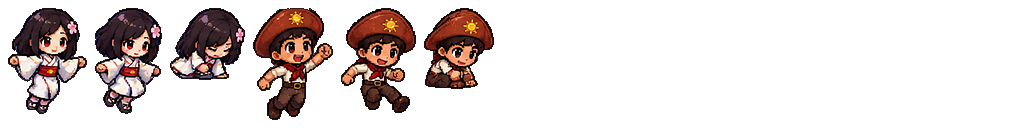
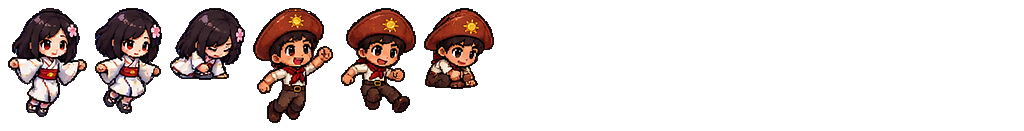
fix: reconstruir topo do chapéu/cabeça tampado pelas etiquetas na sheet
Na sheet original, as etiquetas (JUMP, WALK...) foram desenhadas por cima
do topo de alguns quadros, que ficavam com o chapéu (José) ou a cabeça
(Sakura) reto. O script agora detecta onde a etiqueta tampou o personagem
e refaz o topo seguindo a curva das laterais, com a cor do próprio desenho
e contorno escuro. Afetava o pulo e o 2º quadro de caminhada dos dois.

diff --git a/js/sprites.js b/js/sprites.js
@@ -12,10 +12,10 @@ const PALETTE = {
 // Atlas gerado por tools/build_char_atlas.py a partir de assets/src/char-sheet-original.png:
 // recorte limpo, alfa binario e quadros ja no tamanho final (1 px do atlas = 1 px do canvas 1536x864).
 const charSheetImg = new Image();
-charSheetImg.src = 'assets/char-sheet.png?v=27';
+charSheetImg.src = 'assets/char-sheet.png?v=28';
 // Conjunto separado do pulo: subida (jump), queda (fall) e aterrissagem (land).
 const charJumpImg = new Image();
-charJumpImg.src = 'assets/char-jump.png?v=27';
+charJumpImg.src = 'assets/char-jump.png?v=28';
 
 const CHAR_ANIMS = {
   // José
@@ -23,16 +23,16 @@ const CHAR_ANIMS = {
     idle: [{ x: 448, y: 8, w: 70, h: 118 }],
     walk: [{ x: 526, y: 8, w: 68, h: 118, dur: 1.25, bob: 0, step: true }, { x: 602, y: 8, w: 65, h: 119, dur: 0.80, bob: -1, step: false }, { x: 675, y: 8, w: 65, h: 117, dur: 1.25, bob: 0, step: true }, { x: 602, y: 8, w: 65, h: 119, dur: 0.80, bob: -1, step: false }],
     hurt: [{ x: 748, y: 8, w: 80, h: 122 }],
-    jump: [{ x: 253, y: 8, w: 80, h: 112, img: 'jump' }],
+    jump: [{ x: 253, y: 8, w: 80, h: 115, img: 'jump' }],
     fall: [{ x: 341, y: 8, w: 75, h: 105, img: 'jump' }],
     land: [{ x: 424, y: 8, w: 70, h: 81, img: 'jump' }],
   },
   // Sakura
   female: {
     idle: [{ x: 8, y: 8, w: 61, h: 109 }, { x: 77, y: 8, w: 61, h: 110 }],
-    walk: [{ x: 146, y: 8, w: 63, h: 110, dur: 1.25, bob: 0, step: true }, { x: 217, y: 8, w: 64, h: 110, dur: 0.80, bob: -1, step: false }, { x: 289, y: 8, w: 65, h: 109, dur: 1.25, bob: 0, step: true }, { x: 217, y: 8, w: 64, h: 110, dur: 0.80, bob: -1, step: false }],
+    walk: [{ x: 146, y: 8, w: 63, h: 110, dur: 1.25, bob: 0, step: true }, { x: 217, y: 8, w: 64, h: 111, dur: 0.80, bob: -1, step: false }, { x: 289, y: 8, w: 65, h: 109, dur: 1.25, bob: 0, step: true }, { x: 217, y: 8, w: 64, h: 111, dur: 0.80, bob: -1, step: false }],
     hurt: [{ x: 362, y: 8, w: 78, h: 117 }],
-    jump: [{ x: 8, y: 8, w: 79, h: 106, img: 'jump' }],
+    jump: [{ x: 8, y: 8, w: 79, h: 109, img: 'jump' }],
     fall: [{ x: 95, y: 8, w: 67, h: 106, img: 'jump' }],
     land: [{ x: 170, y: 8, w: 75, h: 72, img: 'jump' }],
   },

diff --git a/tools/build_char_atlas.py b/tools/build_char_atlas.py
@@ -145,7 +145,53 @@ def geodesic_assign(mask, seeds):
     return lab
 
 
-def extract_row(src, y0, y1, runs):
+def repair_top(cell, m, pan):
+    """Reconstroi o topo do personagem onde a etiqueta foi desenhada POR CIMA dele na sheet.
+
+    Nesses pontos o chapeu termina numa linha reta logo abaixo da etiqueta. O topo e
+    refeito seguindo a curva das laterais (parabola ajustada ao contorno vizinho),
+    pintado com a cor do proprio chapeu e fechado com o contorno escuro.
+    Altera cell e m no lugar; devolve quantas colunas foram reconstruidas."""
+    h, w = m.shape
+    cols = np.where(m.any(0))[0]
+    if not len(cols):
+        return 0
+    top = np.full(w, -1)
+    top[cols] = m[:, cols].argmax(0)
+    occl = [x for x in cols if top[x] > 0 and pan[max(0, top[x] - 4):top[x], x].any()]
+    if len(occl) < 5:
+        return 0
+    occl = np.array(occl)
+    flat = int(np.median(top[occl]))
+    lo, hi = occl.min(), occl.max()
+    side = [x for x in cols if (lo - 30 <= x < lo or hi < x <= hi + 30) and flat < top[x] < flat + 30]
+    if len(side) < 6:
+        return 0
+    a, b, c = np.polyfit(side, top[side], 2)
+    if a <= 0:
+        return 0
+    dark = cell[m & (cell[..., :3].max(-1) < 70)]
+    outline = np.median(dark[:, :3], 0).astype(np.uint8) if len(dark) else np.array([30, 20, 18], np.uint8)
+    new = np.zeros_like(m)
+    for x in range(lo, hi + 1):
+        ynew = int(round(a * x * x + b * x + c))
+        ynew = max(ynew, flat - 16, 0)
+        for y in range(ynew, flat + 1):
+            if m[y, x]:
+                continue
+            d = flat - y
+            sy = min(h - 1, flat + 3 + d % 4)
+            if m[sy, x]:
+                cell[y, x, :3] = cell[sy, x, :3]
+                cell[y, x, 3] = 255
+                new[y, x] = True
+    m |= new
+    ring = new & ~ndi.binary_erosion(m, iterations=2)
+    cell[ring, :3] = outline
+    return int(hi - lo + 1)
+
+
+def extract_row(src, y0, y1, runs, panel=None):
     """runs: lista de (nome, x0, x1, k) que dividem a mesma faixa horizontal."""
     band = src[y0:y1]
     mask = band[..., 3] >= 128
@@ -169,6 +215,10 @@ def extract_row(src, y0, y1, runs):
         cell = band.copy()
         cell[~own] = 0
         m = clean_mask(cell)
+        if panel is not None:
+            repaired = repair_top(cell, m, panel[y0:y1])
+            if repaired:
+                print(f'// topo reconstruido: {name}[{j}] ({repaired} colunas tampadas pela etiqueta)', file=sys.stderr)
         ys, xs = np.where(m)
         cy0, cy1, cx0, cx1 = ys.min(), ys.max() + 1, xs.min(), xs.max() + 1
         fr = cell[cy0:cy1, cx0:cx1].copy()
@@ -215,7 +265,7 @@ def remove_labels(src):
         panel |= ndi.binary_dilation(panel) & cold
     src = src.copy()
     src[panel] = 0
-    return src
+    return src, panel
 
 
 def pack(arrs):
@@ -239,7 +289,7 @@ def pack(arrs):
 
 
 def main():
-    src = remove_labels(np.array(Image.open(SRC).convert('RGBA')))
+    src, panel = remove_labels(np.array(Image.open(SRC).convert('RGBA')))
     packed = {k: [] for k in OUTS}
     anims = {}
     for ch, rows in ROWS.items():
@@ -248,7 +298,7 @@ def main():
             bands.setdefault((y0, y1), []).append((name, x0, x1, k))
         raw, touch = {}, {}
         for (y0, y1), runs in bands.items():
-            fr, t = extract_row(src, y0, y1, runs)
+            fr, t = extract_row(src, y0, y1, runs, panel)
             raw.update(fr)
             touch.update(t)
         bad = [f'{ch}.{run}[{i}]' for _, run, ids in USE[ch].values() for i in set(ids) if touch[run][i]]
